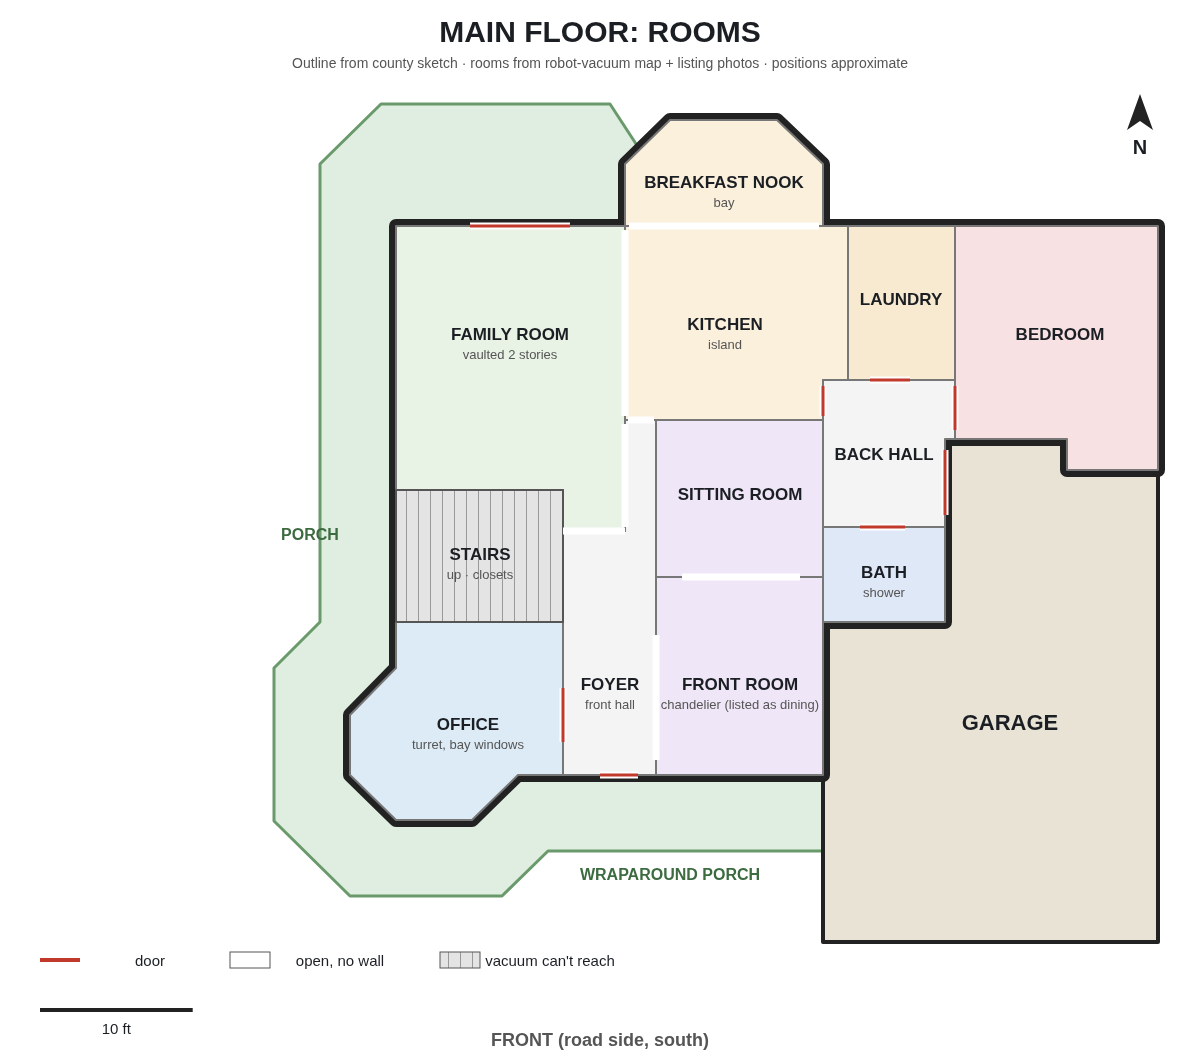
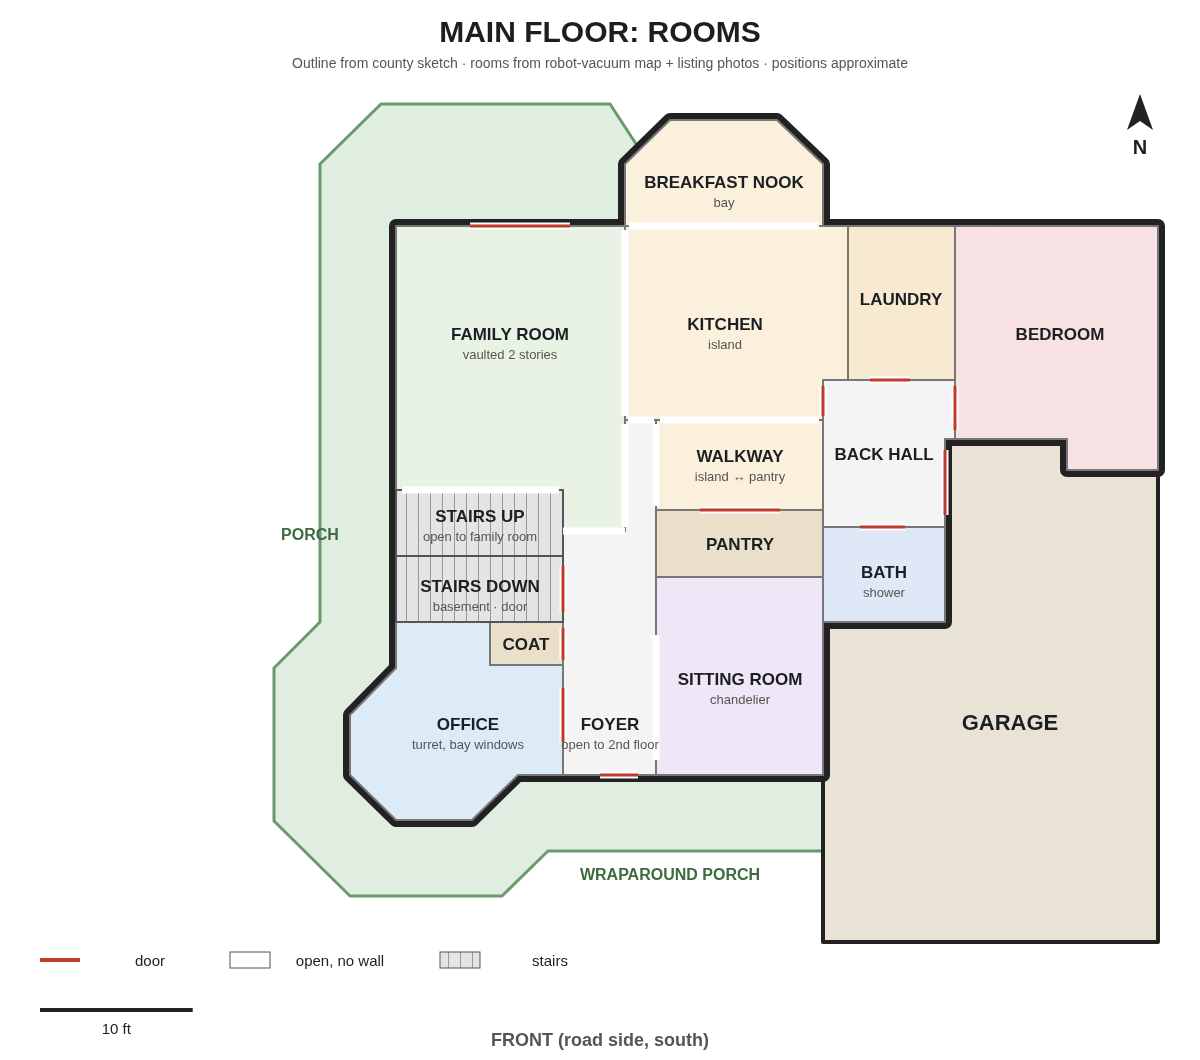
Correct main floor room plan from walk-through notes

diff --git a/index.html b/index.html
@@ -146,6 +146,7 @@
 <section id="changes">
   <h2>Change log</h2>
   <ul>
+    <li><strong>2026-11-21</strong>: Room plan corrected from walk-through notes: coat closet, separate up/down stairs (basement stairs behind a door), pantry and walkway, front room is the sitting room, foyer open to 2nd floor.</li>
     <li><strong>2026-11-21</strong>: Main floor room plan added, from the robot vacuum map and listing photos.</li>
     <li><strong>2026-11-21</strong>: Floor plan outlines added (basement, main, second), traced from the county auditor sketch.</li>
     <li><strong>2026-11-21</strong>: Map started. Panel, heated floors (original controls + Shelly replacement plan and wiring), thermostats.</li>

diff --git a/img/floorplan/rooms.py b/img/floorplan/rooms.py
@@ -2,25 +2,28 @@
 # from the robot-vacuum map (reach, door gaps) + listing photos. Sketch px, 15.27 px/ft.
 exec(open('build.py').read().split('def poly')[0])
 R={
- "office":[(386,532),(553,532),(553,685),(508,685),(462,730),(386,730),(340,685),(340,625),(386,578)],
+ "office":[(386,532),(480,532),(480,575),(553,575),(553,685),(508,685),(462,730),(386,730),(340,685),(340,625),(386,578)],
  "hall":[(553,441),(615,441),(615,330),(646,330),(646,685),(553,685)],
  "front":[(646,487),(813,487),(813,685),(646,685)],
- "sitting":[(646,330),(813,330),(813,487),(646,487)],
+ "walkway":[(646,330),(813,330),(813,420),(646,420)],
+ "pantry":[(646,420),(813,420),(813,487),(646,487)],
+ "closet":[(480,532),(553,532),(553,575),(480,575)],
  "kitchen":[(615,136),(838,136),(838,290),(813,290),(813,330),(615,330)],
  "nook":[(615,74),(660,30),(767,30),(813,74),(813,136),(615,136)],
  "family":[(386,136),(615,136),(615,441),(553,441),(553,400),(386,400)],
- "stairs":[(386,400),(553,400),(553,532),(386,532)],
+ "up":[(386,400),(553,400),(553,466),(386,466)],
+ "down":[(386,466),(553,466),(553,532),(386,532)],
  "laundry":[(838,136),(945,136),(945,290),(838,290)],
  "backhall":[(813,290),(945,290),(945,349),(935,349),(935,437),(813,437)],
  "bath":[(813,437),(935,437),(935,532),(813,532)],
  "bedroom":[(945,136),(996,136),(1148,136),(1148,380),(1057,380),(1057,349),(945,349)],
 }
-FILL={"office":"#dcebf5","hall":"#f4f4f4","front":"#efe6f7","sitting":"#efe6f7","kitchen":"#fbf0dc","nook":"#fbf0dc",
- "family":"#e8f3e6","stairs":"#d9d9d9","laundry":"#f7ead0","backhall":"#f4f4f4","bath":"#dfe8f7","bedroom":"#f7e1e3"}
-LBL={"office":("OFFICE","turret, bay windows",458,640),"hall":("FOYER","front hall",600,600),
- "front":("FRONT ROOM","chandelier (listed as dining)",730,600),"sitting":("SITTING ROOM","",730,410),
+FILL={"office":"#dcebf5","hall":"#f4f4f4","front":"#efe6f7","walkway":"#fbf0dc","pantry":"#eadfc8","closet":"#eadfc8","kitchen":"#fbf0dc","nook":"#fbf0dc",
+ "family":"#e8f3e6","up":"#d9d9d9","down":"#d9d9d9","laundry":"#f7ead0","backhall":"#f4f4f4","bath":"#dfe8f7","bedroom":"#f7e1e3"}
+LBL={"office":("OFFICE","turret, bay windows",458,640),"hall":("FOYER","open to 2nd floor",600,640),
+ "front":("SITTING ROOM","chandelier",730,595),"walkway":("WALKWAY","island ↔ pantry",730,372),"pantry":("PANTRY","",730,460),"closet":("COAT","",516,560),
  "kitchen":("KITCHEN","island",715,240),"nook":("BREAKFAST NOOK","bay",714,98),
- "family":("FAMILY ROOM","vaulted 2 stories",500,250),"stairs":("STAIRS","up · closets",470,470),
+ "family":("FAMILY ROOM","vaulted 2 stories",500,250),"up":("STAIRS UP","open to family room",470,432),"down":("STAIRS DOWN","basement · door",470,502),
  "laundry":("LAUNDRY","",891,215),"backhall":("BACK HALL","",874,370),"bath":("BATH","shower",874,488),
  "bedroom":("BEDROOM","",1050,250)}
 def poly(p,fill,stroke="#555",sw=2,dash=""):
@@ -36,11 +39,16 @@ def gap(x1,y1,x2,y2,kind="open"):  # erase wall segment and mark the opening
 b=poly(porch,"#dfeee0","#6a9a6c",3)+poly(gar,"#e9e3d6","#222",4)
 for p in [core,fam,bump]: b+=poly(p,"#222","#222",14)   # exterior wall (inner half gets covered)
 for k,p in R.items(): b+=poly(p,FILL[k],"#777",2)
-b+=poly(R["stairs"],"url(#st)","#555",2)
+b+=poly(R["up"],"url(#st)","#555",2)+poly(R["down"],"url(#st)","#555",2)
 # openings (no wall) and doors (red)
 b+=gap(553,441,615,441)            # hall opens into family room
 b+=gap(646,545,646,670)            # wide opening foyer -> front room
-b+=gap(672,487,790,487)            # wide opening front room -> sitting room (the wall in between)
+b+=gap(690,420,770,420,"door")     # pantry double doors face the walkway
+b+=gap(650,330,809,330)            # walkway open to kitchen
+b+=gap(646,334,646,416)            # walkway open to hall
+b+=gap(392,400,549,400)            # up stairs open to family room
+b+=gap(553,476,553,522,"door")     # basement stair door
+b+=gap(553,538,553,570,"door")     # coat closet
 b+=gap(618,330,644,330)            # walkway to kitchen
 b+=gap(615,140,615,326)            # kitchen open to family room
 b+=gap(619,136,809,136)            # kitchen open to nook
@@ -61,7 +69,7 @@ defs='<defs><pattern id="st" width="12" height="12" patternUnits="userSpaceOnUse
 W,H=1200,1060; sb=10*15.27
 leg=('<g transform="translate(40,960)">'+'<line x1="0" y1="0" x2="40" y2="0" stroke="#c0392b" stroke-width="4"/>'+T(110,6,"door",15,"normal")
      +'<rect x="190" y="-8" width="40" height="16" fill="#fff" stroke="#555"/>'+T(300,6,"open, no wall",15,"normal")
-     +'<rect x="400" y="-8" width="40" height="16" fill="url(#st)" stroke="#555"/>'+T(510,6,"vacuum can\'t reach",15,"normal")+'</g>')
+     +'<rect x="400" y="-8" width="40" height="16" fill="url(#st)" stroke="#555"/>'+T(510,6,"stairs",15,"normal")+'</g>')
 svg=(f'<svg xmlns="http://www.w3.org/2000/svg" viewBox="0 0 {W} {H}" width="{W}" height="{H}" font-family="DejaVu Sans, Arial, sans-serif">{defs}'
      f'<rect width="{W}" height="{H}" fill="#fff"/>'+T(W/2,42,"MAIN FLOOR: ROOMS",30)
      +T(W/2,68,"Outline from county sketch · rooms from robot-vacuum map + listing photos · positions approximate",14,"normal","#555")
